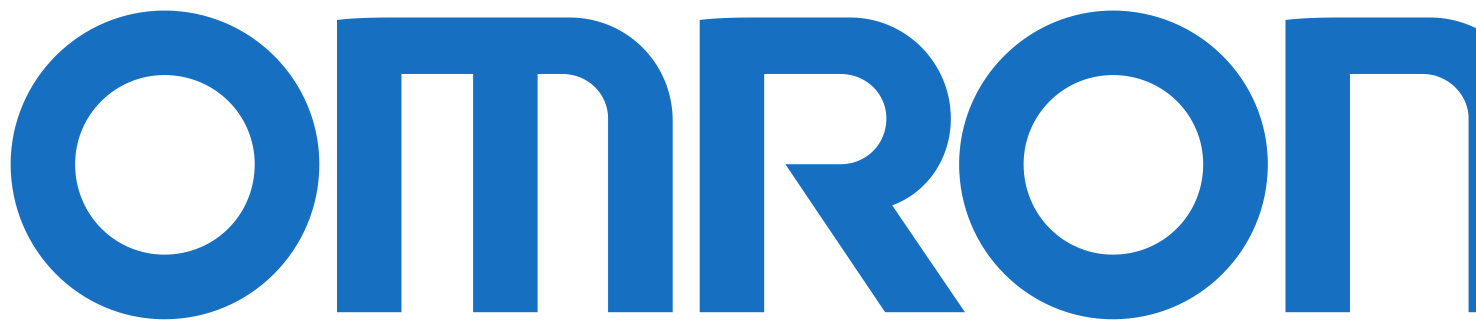
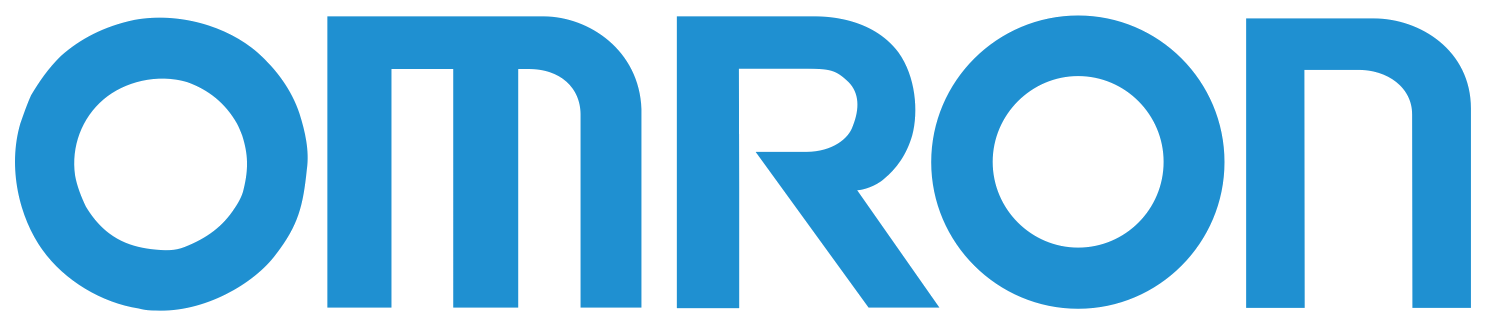
fix(brands): fix Omron and Hikvision unclipped bounding boxes and full text rendering

diff --git a/FrontEnd/components/brand-logos.tsx b/FrontEnd/components/brand-logos.tsx
@@ -33,7 +33,7 @@ const BRAND_ASSETS: Record<string, { src: string; width: number; height: number;
   legrand: { src: "/brands/legrand.png", width: 760, height: 193, alt: "Legrand" },
   socomec: { src: "/brands/socomec.png", width: 1095, height: 201, alt: "Socomec" },
   autonics: { src: "/brands/autonics.png", width: 568, height: 128, alt: "Autonics" },
-  omron: { src: "/brands/omron.png", width: 1476, height: 330, alt: "Omron" },
+  omron: { src: "/brands/omron.png", width: 1486, height: 326, alt: "Omron" },
   chint: { src: "/brands/chint.png", width: 94, height: 40, alt: "CHINT" },
   chnt: { src: "/brands/chint.png", width: 94, height: 40, alt: "CHINT" },
   msa: { src: "/brands/msa.png", width: 100, height: 52, alt: "MSA The Safety Company" },
@@ -42,11 +42,11 @@ const BRAND_ASSETS: Record<string, { src: string; width: number; height: number;
   notifier: { src: "/brands/honeywell.png", width: 405, height: 72, alt: "Honeywell Notifier" },
   notifierhoneywell: { src: "/brands/honeywell.png", width: 405, height: 72, alt: "Honeywell Notifier" },
   bosch: { src: "/brands/bosch.png", width: 323, height: 72, alt: "Bosch" },
-  asenware: { src: "/brands/asenware.png", width: 1083, height: 285, alt: "ASENWARE" },
-  awasenware: { src: "/brands/asenware.png", width: 1083, height: 285, alt: "ASENWARE" },
+  asenware: { src: "/brands/asenware.png", width: 1304, height: 328, alt: "ASENWARE" },
+  awasenware: { src: "/brands/asenware.png", width: 1304, height: 328, alt: "ASENWARE" },
   hooseki: { src: "/brands/hooseki.png", width: 720, height: 388, alt: "HOOSEKI" },
   simplex: { src: "/brands/simplex.png", width: 344, height: 59, alt: "Simplex" },
-  hikvision: { src: "/brands/hikvision.png", width: 1200, height: 216, alt: "HIKVISION" },
+  hikvision: { src: "/brands/hikvision.png", width: 1031, height: 510, alt: "HIKVISION" },
   advantech: { src: "/brands/advantech.png", width: 488, height: 106, alt: "ADVANTECH" },
   pepperlfuchs: { src: "/brands/pepperlfuchs.png", width: 443, height: 54, alt: "Pepperl+Fuchs" },
   moxa: { src: "/brands/moxa.png", width: 571, height: 91, alt: "MOXA" },
